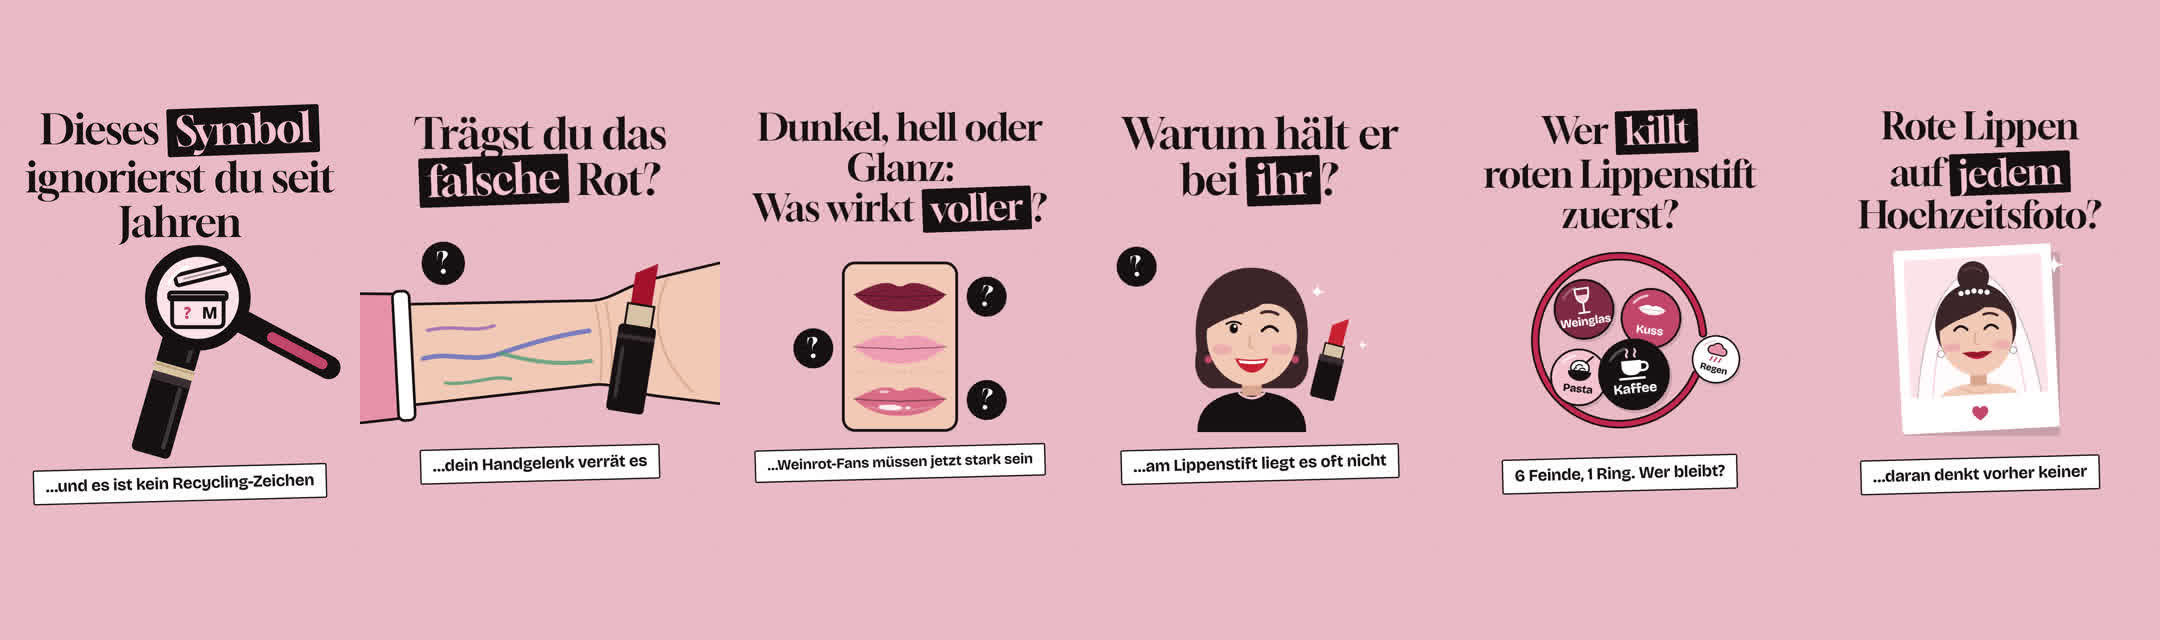
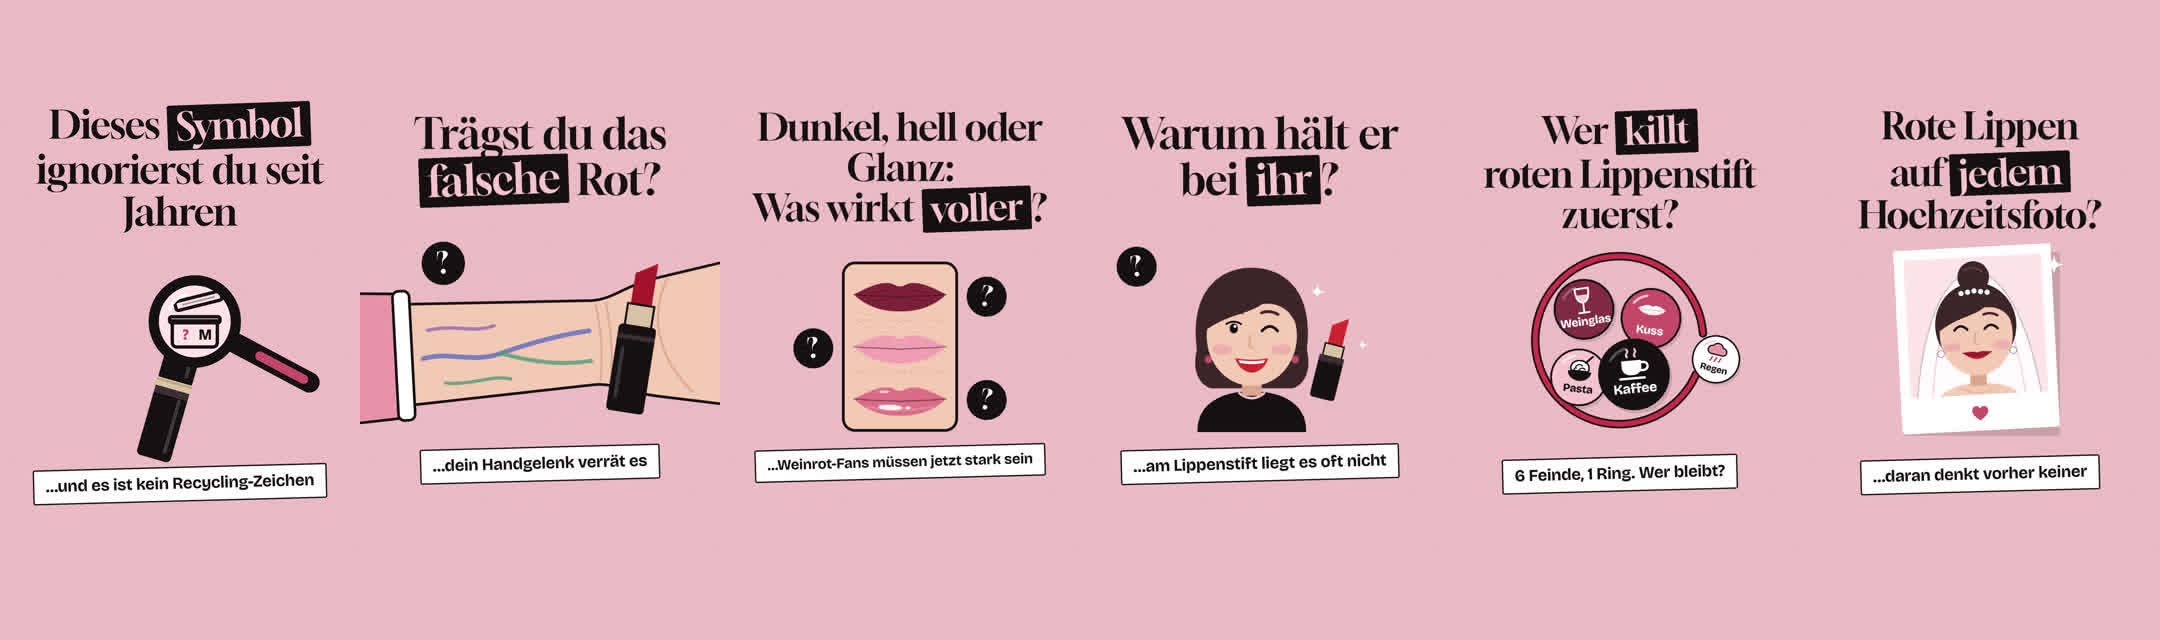
Runde 6: Cover R601 entzerrt, Übersicht aktualisiert (KI)
Claude-Session: https://claude.ai/code/session_019QtFuDycKncSPrAFZdEyC3

Changed region(s): [[0.0, 0.1562, 0.1551, 0.7188]]

diff --git a/organic/videos/R601/scene.js b/organic/videos/R601/scene.js
@@ -424,5 +424,5 @@ SCENES.s9 = { bg: C.nacht, build(root, ctx) {
 SCENES.cover = { bg: C.rosa, build(root) {
   const art = g(150, 236, .72, 196, stick({ sym: 1 }))
     + g(196, 96, 1, 0, lupe(88, 28, `<g transform="translate(0 4) scale(.36) translate(-200 -215)">${jar({ lid: 1, num: '?', m: 'M', numCol: C.beere, sw: 20 })}</g>`));
-  coverLayout(root, { lines: ['Dieses *Symbol*', 'ignorierst du seit Jahren'], teaser: '…und es ist kein Recycling-Zeichen', art, artSize: 640, artX: 600, artY: 1060, size: 124, textY: 320, teaserY: 1400 });
+  coverLayout(root, { lines: ['Dieses *Symbol*', 'ignorierst du seit Jahren'], teaser: '…und es ist kein Recycling-Zeichen', art, artSize: 560, artX: 590, artY: 1110, size: 116, textY: 310, teaserY: 1400 });
 }};
